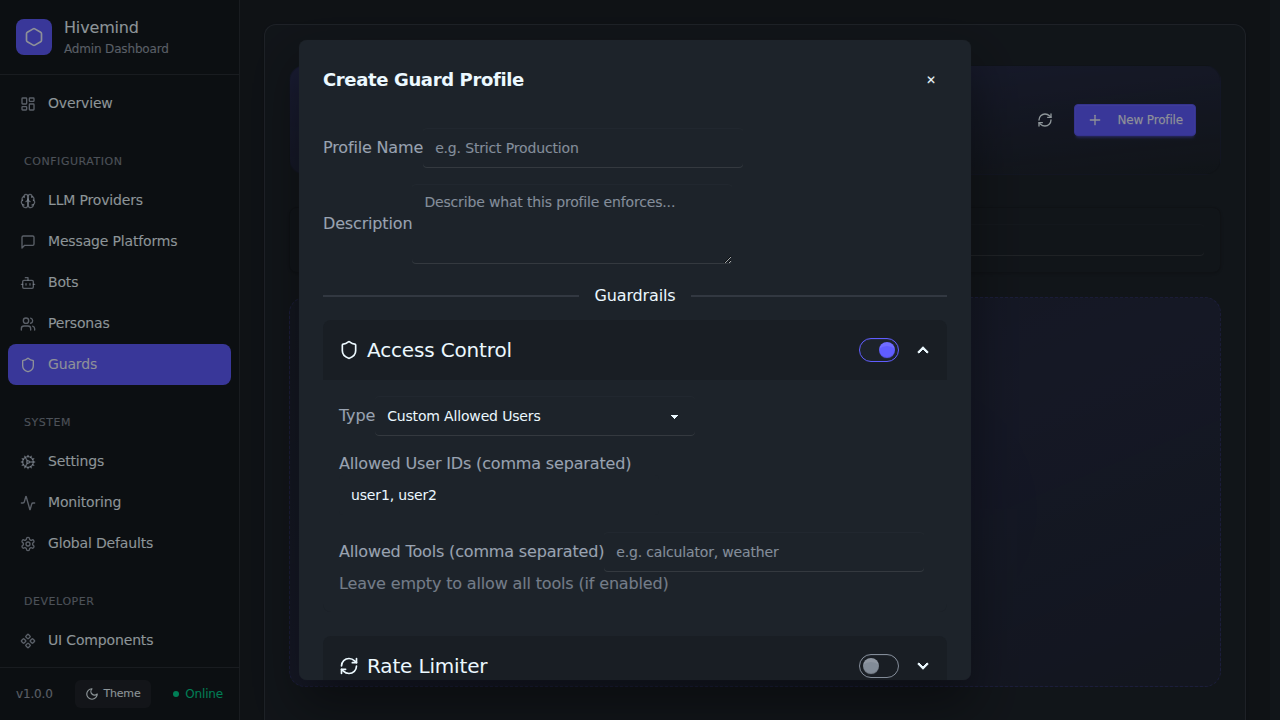
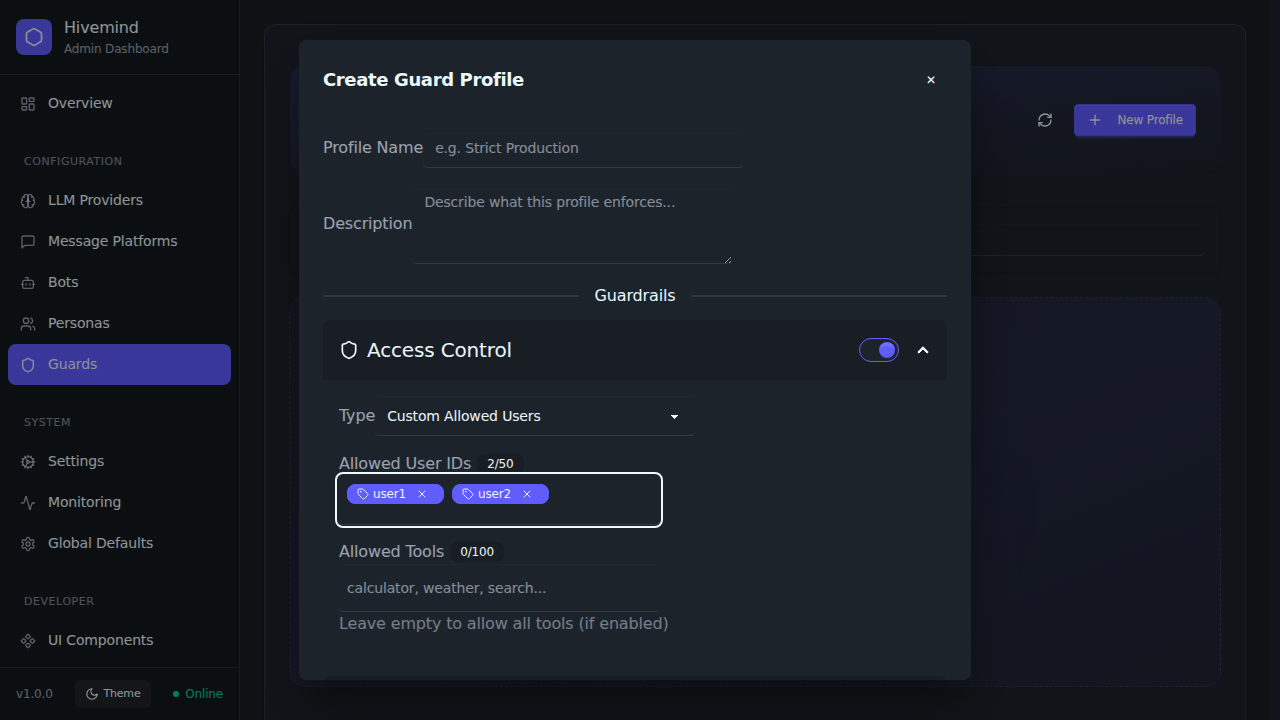
Refiner (Test Assertion Quality and Specificity): Update MCP Guard UI Test to verify generated chips instead of raw input value (#1268)

diff --git a/tests/e2e/test-mcp-guard-ux.spec.ts b/tests/e2e/test-mcp-guard-ux.spec.ts
@@ -38,14 +38,33 @@ test('verify MCP Guard UX', async ({ page }) => {
   const usersInput = modal.locator('input[id="allowed-users"]');
   await usersInput.fill('user1');
 
-  // Screenshot before typing comma
+  // Press enter to commit the first chip
+  await usersInput.press('Enter');
+
+  // Screenshot before typing second value
   await page.screenshot({ path: 'docs/screenshots/mcp-guard-ux-before.png' });
 
-  await usersInput.pressSequentially(',user2');
+  // Type second value and press enter
+  await usersInput.pressSequentially('user2');
+  await usersInput.press('Enter');
 
-  // Screenshot after typing comma
+  // Screenshot after typing second value
   await page.screenshot({ path: 'docs/screenshots/mcp-guard-ux-after.png' });
 
+<<<<<<< HEAD
+  // Wait for the badges to appear
+  const badges = modal.locator('.badge', { hasText: /user1|user2/ });
+  await expect(badges).toHaveCount(2);
+
+  // Validate badge texts exactly
+  const firstBadge = badges.nth(0);
+  const secondBadge = badges.nth(1);
+  await expect(firstBadge).toHaveText(/user1/);
+  await expect(secondBadge).toHaveText(/user2/);
+
+  // The input value itself is cleared after pressing Enter
+  expect(await usersInput.inputValue()).toBe('');
+=======
   const value = await usersInput.inputValue();
   console.log('Input value after typing ",user2":', value);
   expect(value).toBe('user1,user2');
@@ -82,4 +101,5 @@ test('verify MCP Guard UX', async ({ page }) => {
   await undoButton.click();
   await expect(chips).toHaveCount(2);
   await page.screenshot({ path: 'docs/screenshots/mcp-guard-ux-after-undo.png' });
+>>>>>>> origin/main
 });
